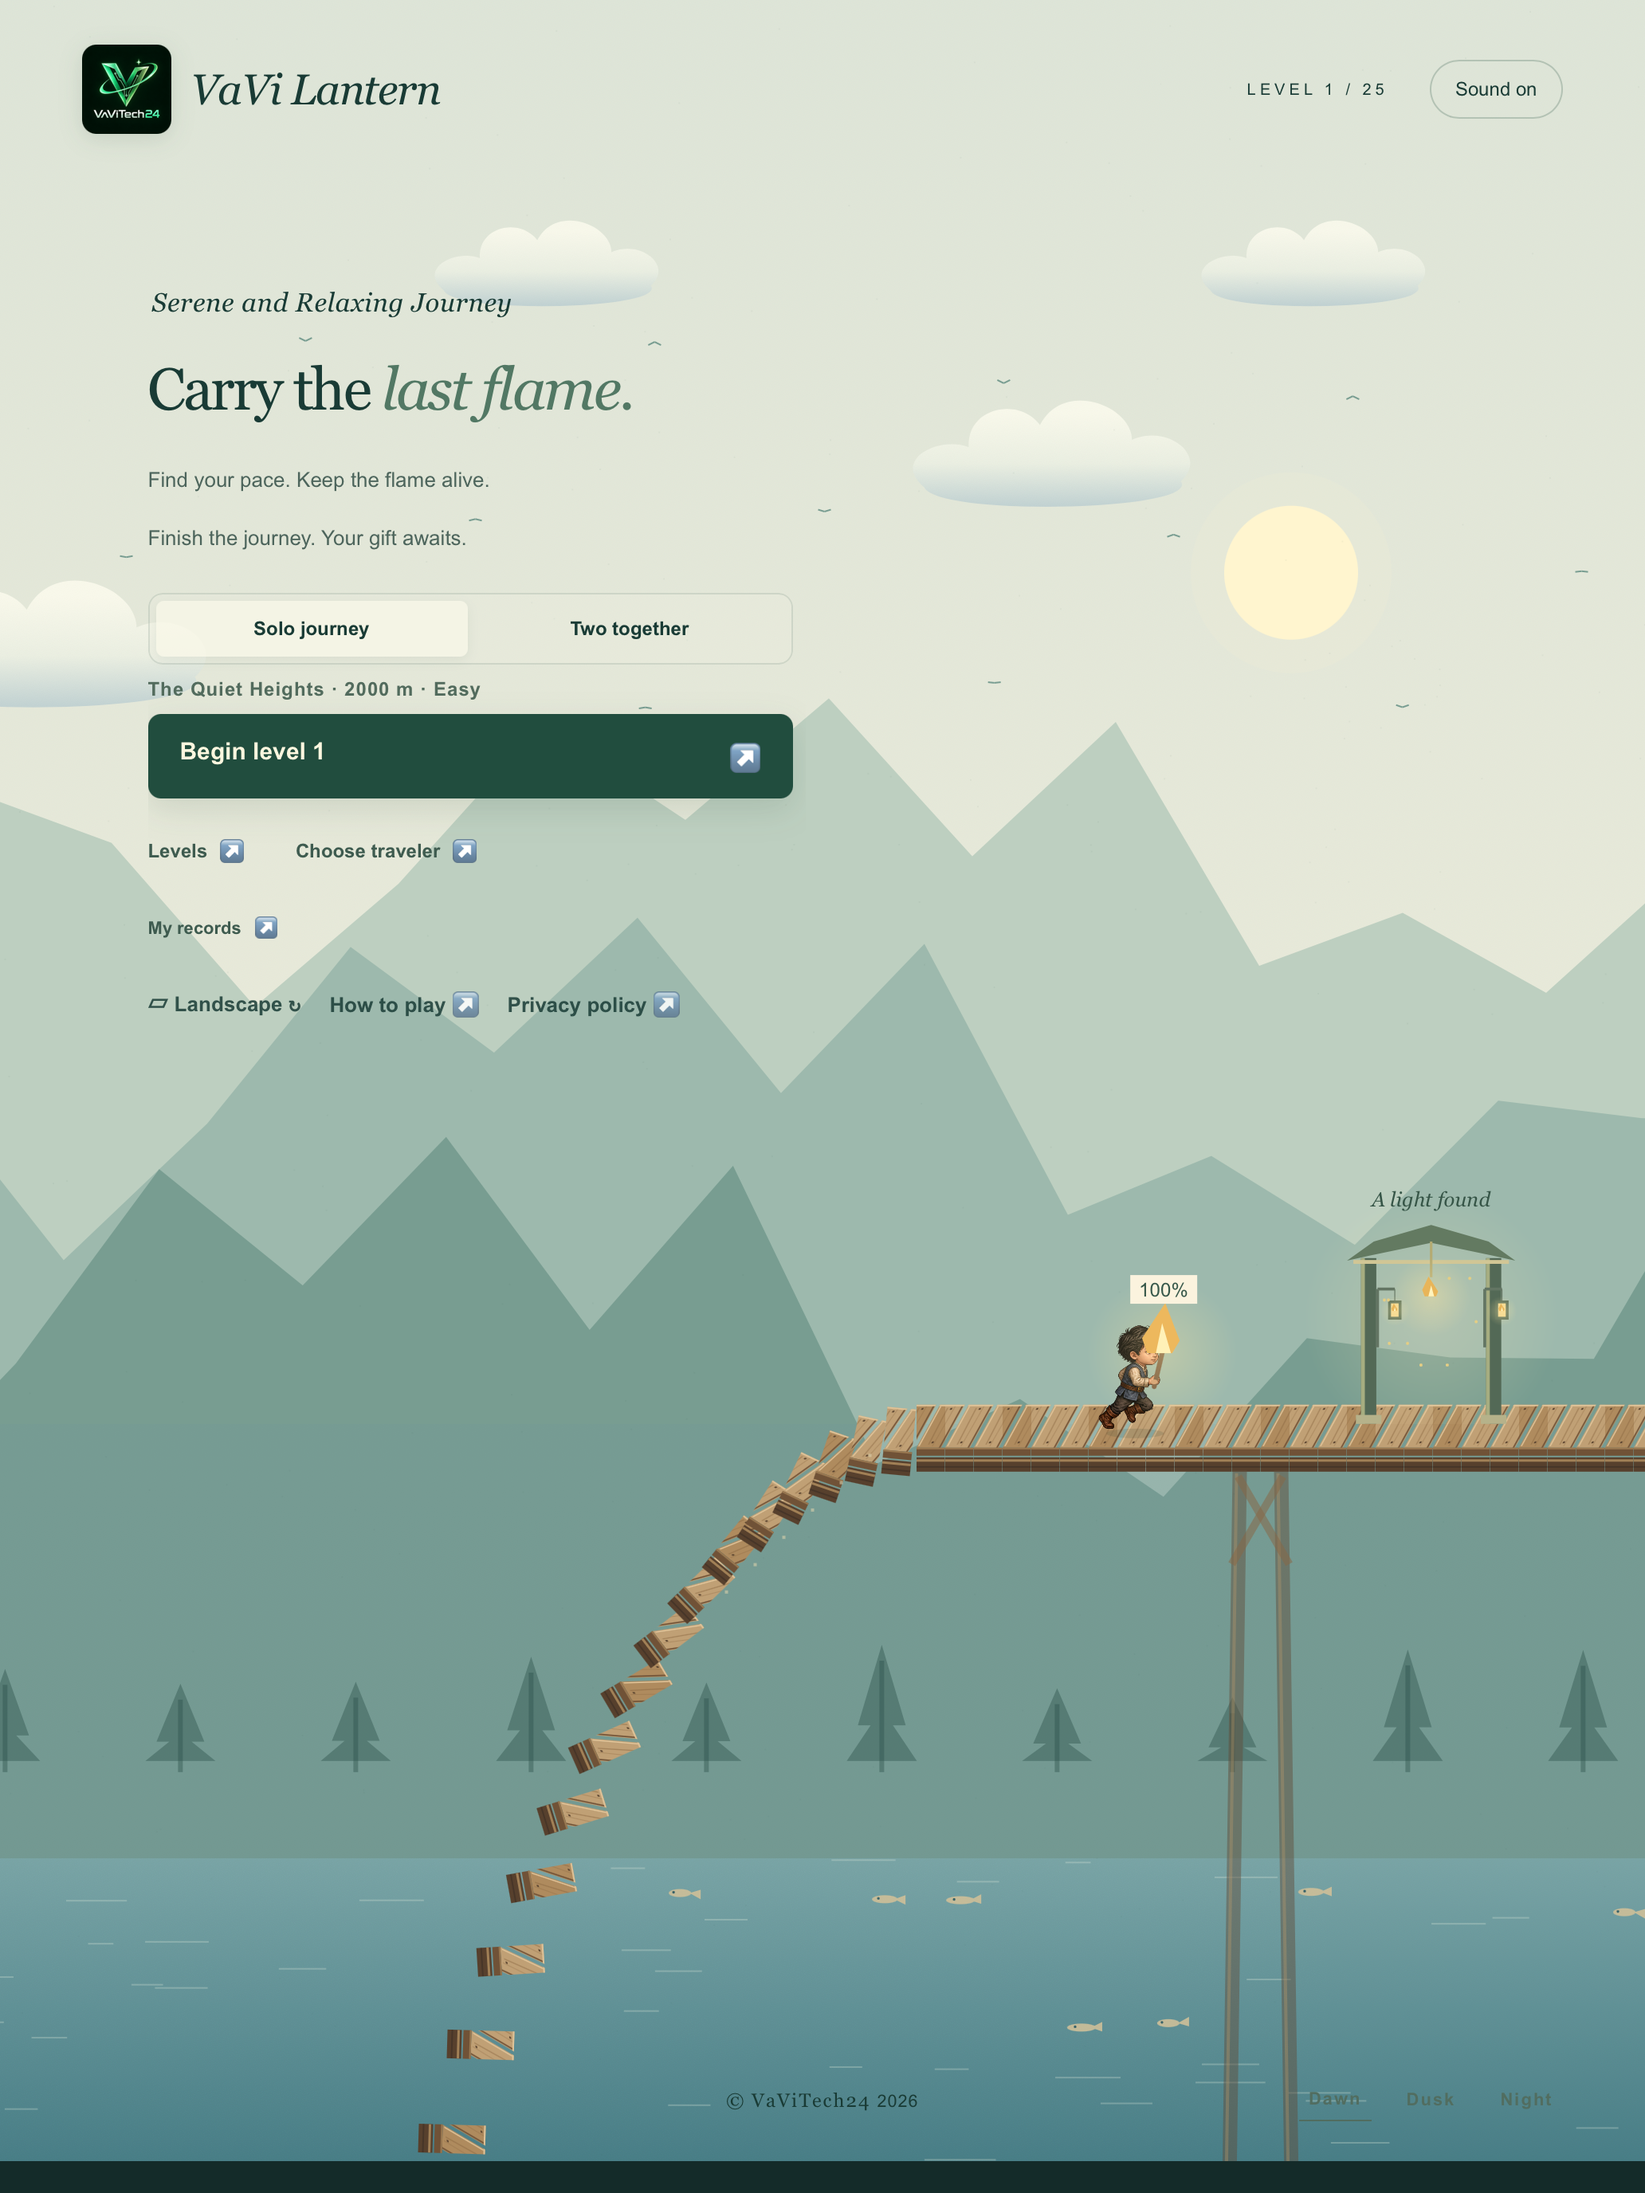
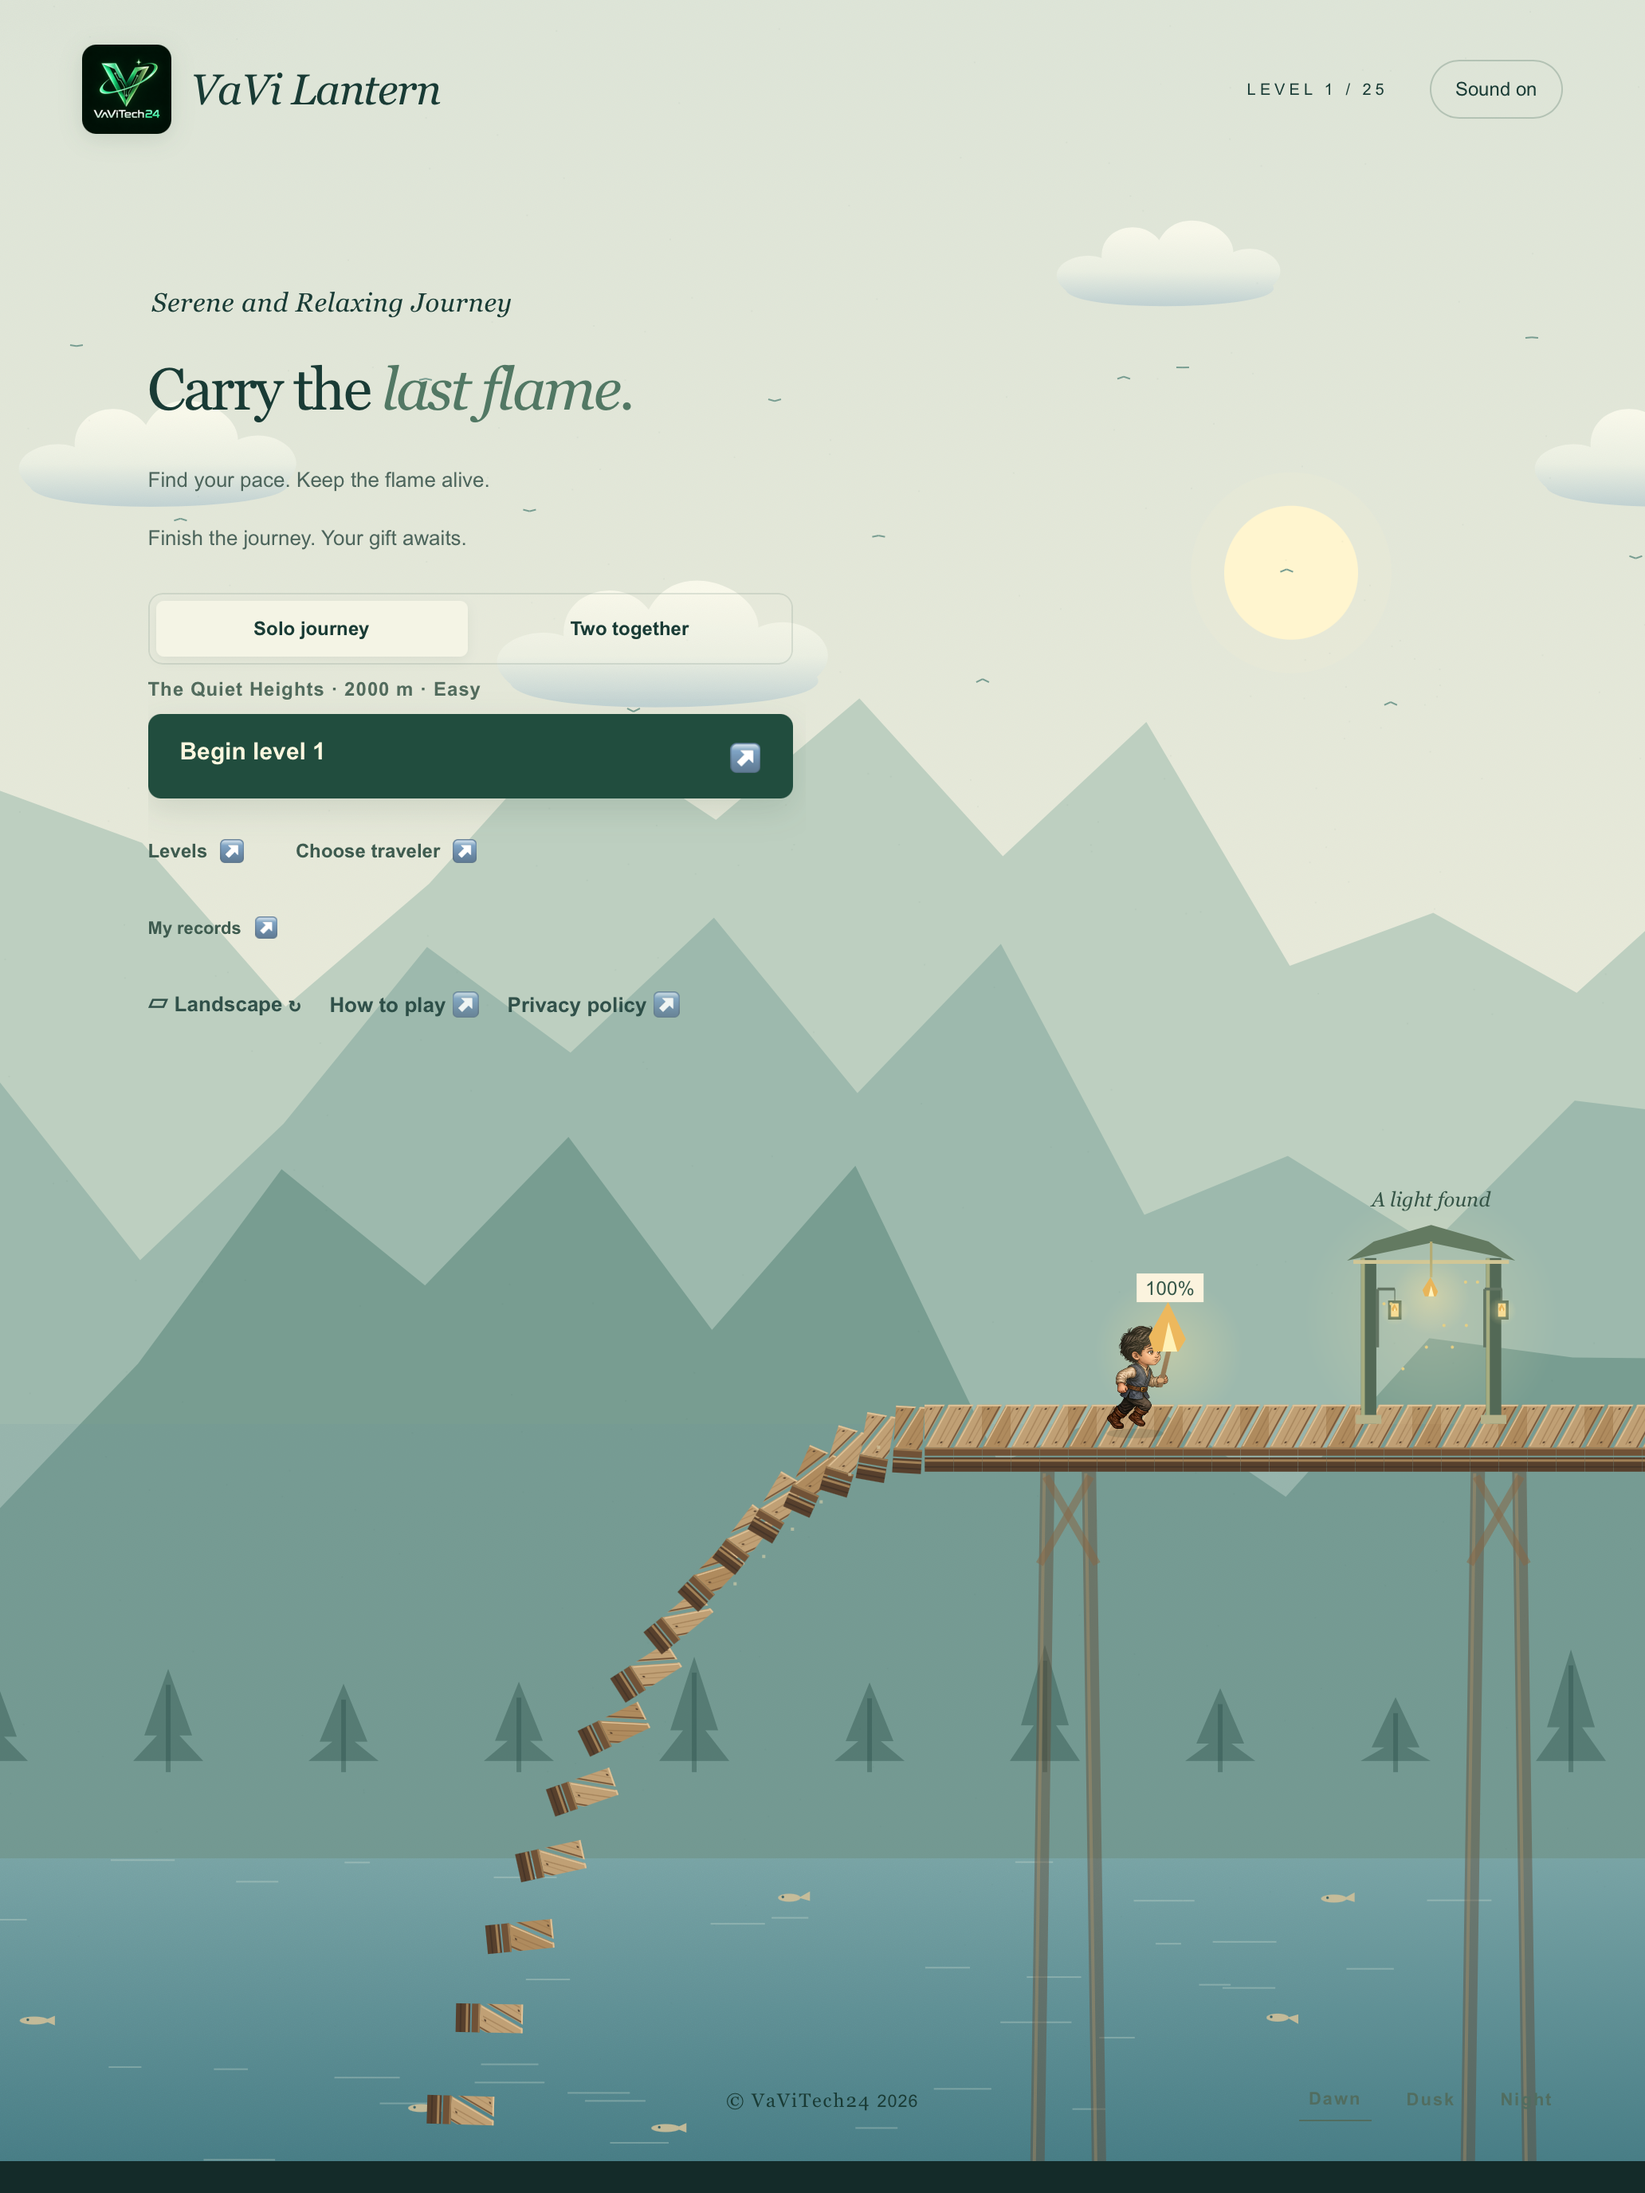
Curate iPhone and iPad App Store screenshot galleries

diff --git a/docs/screenshots/2026-09-24-app-store/README.md b/docs/screenshots/2026-09-24-app-store/README.md
@@ -1,22 +1,113 @@
-# iOS simulator screenshots
+# iPhone and iPad screenshot gallery
 
-Captured September 24, 2026 (America/Toronto) from the running VaViLantern iOS app, version 1.0.0 build 1, using Xcode 27 / iOS 27 simulators. These are original PNG screenshots, not Android images or browser mockups. No resizing, cropping or artwork edits were applied.
+Selected from the owner’s September 24, 2026 captures of VaViLantern in Device Hub simulators. The [Android gallery](../2026-09-12-google-play/README.md) guided the selection: home, travelers, gesture guidance, obstacles and changing scenery.
 
-The [Android gallery](../2026-09-12-google-play/README.md) was used as the content reference. This first set contains the equivalent portrait home screen on iPhone and iPad. Traveler selection and landscape gameplay captures remain pending because Device Hub's automated control interface timed out. This is not the complete equivalent of the eight-image Android gallery.
+All 14 PNGs are original files copied byte-for-byte: no cropping, resizing, retouching or mockups. The supplied home captures replace the earlier automated home captures.
 
-| Device | Original size | App Store Connect slot | Screenshot |
+## App Store upload guide
+
+| Device | Dimensions | App Store Connect slot | Count |
 | --- | --- | --- | --- |
-| iPhone 18 Pro Max | 1320 × 2868 | iPhone 6.9-inch | [Download PNG](iphone/01-home-portrait.png) |
-| iPad Pro 13-inch (M5) | 2064 × 2752 | iPad 13-inch | [Download PNG](ipad/01-home-portrait.png) |
+| iPhone 18 Pro Max | 1320 × 2868 portrait; 2868 × 1320 landscape | iPhone 6.9-inch | 8 |
+| iPad Pro 13-inch (M5) | 2064 × 2752 portrait | iPad 13-inch | 6 |
 
-If App Store Connect initially shows the iPhone 6.5-inch slot, use **View All Sizes in Media Manager** and select **6.9-inch** for this iPhone capture. Do not upload it to the 6.5-inch slot. See [Apple's screenshot specifications](https://developer.apple.com/help/app-store-connect/reference/app-information/screenshot-specifications).
+Use **View All Sizes in Media Manager** to select the matching slot. The iPhone images do not fit the 6.5-inch slot. Upload in filename order: home, then two gameplay captures, followed by travelers and the remaining views. [Apple screenshot specifications](https://developer.apple.com/help/app-store-connect/reference/app-information/screenshot-specifications).
+
+The selected images show actual visible states: the barrier screenshots show an approaching obstacle, not a completed slide. Near-duplicate jump frames and unsuccessful falls were omitted. The landscape night-home image was omitted because its menu overlaps the runner and flame label. No two-player or iPad landscape capture was supplied. These are simulator captures, not physical-device certification or App Store approval.
 
 ## iPhone
 
-[![VaViLantern iPhone home screen](iphone/01-home-portrait.png)](iphone/01-home-portrait.png)
+### 01 · Dawn home screen
+
+[<img src="iphone/01-home-portrait.png" alt="Dawn home screen" width="300">](iphone/01-home-portrait.png)
+
+[Download original PNG](iphone/01-home-portrait.png)
+### 02 · Dawn crossing and jump guidance
+
+[<img src="iphone/02-jump-guidance-landscape.png" alt="Dawn crossing and jump guidance" width="760">](iphone/02-jump-guidance-landscape.png)
+
+[Download original PNG](iphone/02-jump-guidance-landscape.png)
+### 03 · Dusk crossing with a slide barrier ahead
+
+[<img src="iphone/03-slide-barrier-dusk-landscape.png" alt="Dusk crossing with a slide barrier ahead" width="760">](iphone/03-slide-barrier-dusk-landscape.png)
+
+[Download original PNG](iphone/03-slide-barrier-dusk-landscape.png)
+### 04 · Six travelers
+
+[<img src="iphone/04-travelers-portrait.png" alt="Six travelers" width="300">](iphone/04-travelers-portrait.png)
+
+[Download original PNG](iphone/04-travelers-portrait.png)
+### 05 · Lantern post restoring the flame
+
+[<img src="iphone/05-flame-restored-landscape.png" alt="Lantern post restoring the flame" width="760">](iphone/05-flame-restored-landscape.png)
+
+[Download original PNG](iphone/05-flame-restored-landscape.png)
+### 06 · 25-level journey selector
+
+[<img src="iphone/06-levels-portrait.png" alt="25-level journey selector" width="300">](iphone/06-levels-portrait.png)
+
+[Download original PNG](iphone/06-levels-portrait.png)
+### 07 · Portrait slide guidance
+
+[<img src="iphone/07-slide-guidance-portrait.png" alt="Portrait slide guidance" width="300">](iphone/07-slide-guidance-portrait.png)
+
+[Download original PNG](iphone/07-slide-guidance-portrait.png)
+### 08 · Portrait jump guidance at a gap
+
+[<img src="iphone/08-jump-guidance-portrait.png" alt="Portrait jump guidance at a gap" width="300">](iphone/08-jump-guidance-portrait.png)
+
+[Download original PNG](iphone/08-jump-guidance-portrait.png)
 
 ## iPad
 
-[![VaViLantern iPad home screen](ipad/01-home-portrait.png)](ipad/01-home-portrait.png)
+### 01 · Dawn home screen
 
-These captures demonstrate simulator rendering, not physical-device testing or App Store approval.
+[<img src="ipad/01-home-portrait.png" alt="Dawn home screen" width="300">](ipad/01-home-portrait.png)
+
+[Download original PNG](ipad/01-home-portrait.png)
+### 02 · Dawn crossing and jump guidance
+
+[<img src="ipad/02-jump-guidance-portrait.png" alt="Dawn crossing and jump guidance" width="300">](ipad/02-jump-guidance-portrait.png)
+
+[Download original PNG](ipad/02-jump-guidance-portrait.png)
+### 03 · Dusk crossing with falling fireballs
+
+[<img src="ipad/03-dusk-crossing-portrait.png" alt="Dusk crossing with falling fireballs" width="300">](ipad/03-dusk-crossing-portrait.png)
+
+[Download original PNG](ipad/03-dusk-crossing-portrait.png)
+### 04 · Six travelers
+
+[<img src="ipad/04-travelers-portrait.png" alt="Six travelers" width="300">](ipad/04-travelers-portrait.png)
+
+[Download original PNG](ipad/04-travelers-portrait.png)
+### 05 · 25-level journey selector
+
+[<img src="ipad/05-levels-portrait.png" alt="25-level journey selector" width="300">](ipad/05-levels-portrait.png)
+
+[Download original PNG](ipad/05-levels-portrait.png)
+### 06 · Night home screen
+
+[<img src="ipad/06-night-home-portrait.png" alt="Night home screen" width="300">](ipad/06-night-home-portrait.png)
+
+[Download original PNG](ipad/06-night-home-portrait.png)
+
+## Original file mapping
+
+| Selected file | Owner-supplied original |
+| --- | --- |
+| [iphone/01-home-portrait.png](iphone/01-home-portrait.png) | Screenshot iPhone 18 Pro Max 2026-09-24 at 11.07.31 PM.png |
+| [iphone/02-jump-guidance-landscape.png](iphone/02-jump-guidance-landscape.png) | Screenshot iPhone 18 Pro Max 2026-09-24 at 11.09.19 PM.png |
+| [iphone/03-slide-barrier-dusk-landscape.png](iphone/03-slide-barrier-dusk-landscape.png) | Screenshot iPhone 18 Pro Max 2026-09-24 at 11.10.17 PM.png |
+| [iphone/04-travelers-portrait.png](iphone/04-travelers-portrait.png) | Screenshot iPhone 18 Pro Max 2026-09-24 at 11.08.45 PM.png |
+| [iphone/05-flame-restored-landscape.png](iphone/05-flame-restored-landscape.png) | Screenshot iPhone 18 Pro Max 2026-09-24 at 11.10.25 PM.png |
+| [iphone/06-levels-portrait.png](iphone/06-levels-portrait.png) | Screenshot iPhone 18 Pro Max 2026-09-24 at 11.08.53 PM.png |
+| [iphone/07-slide-guidance-portrait.png](iphone/07-slide-guidance-portrait.png) | Screenshot iPhone 18 Pro Max 2026-09-24 at 11.08.24 PM.png |
+| [iphone/08-jump-guidance-portrait.png](iphone/08-jump-guidance-portrait.png) | Screenshot iPhone 18 Pro Max 2026-09-24 at 11.08.03 PM.png |
+| [ipad/01-home-portrait.png](ipad/01-home-portrait.png) | Screenshot iPad Pro 13-inch (M5) 2026-09-24 at 11.12.11 PM.png |
+| [ipad/02-jump-guidance-portrait.png](ipad/02-jump-guidance-portrait.png) | Screenshot iPad Pro 13-inch (M5) 2026-09-24 at 11.12.19 PM.png |
+| [ipad/03-dusk-crossing-portrait.png](ipad/03-dusk-crossing-portrait.png) | Screenshot iPad Pro 13-inch (M5) 2026-09-24 at 11.14.01 PM.png |
+| [ipad/04-travelers-portrait.png](ipad/04-travelers-portrait.png) | Screenshot iPad Pro 13-inch (M5) 2026-09-24 at 11.14.21 PM.png |
+| [ipad/05-levels-portrait.png](ipad/05-levels-portrait.png) | Screenshot iPad Pro 13-inch (M5) 2026-09-24 at 11.14.25 PM.png |
+| [ipad/06-night-home-portrait.png](ipad/06-night-home-portrait.png) | Screenshot iPad Pro 13-inch (M5) 2026-09-24 at 11.14.14 PM.png |
+
+Dimensions and SHA-256 checksums are recorded in [manifest.json](manifest.json).
